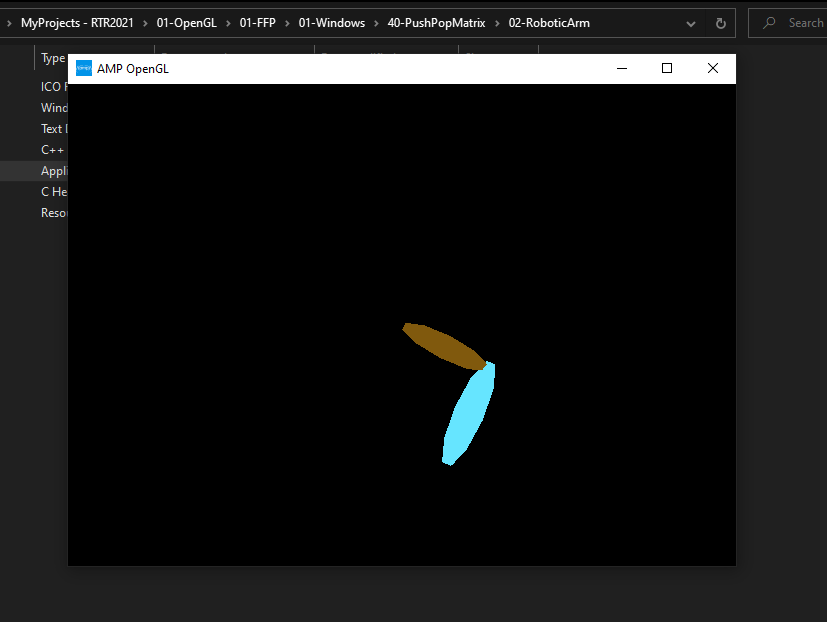
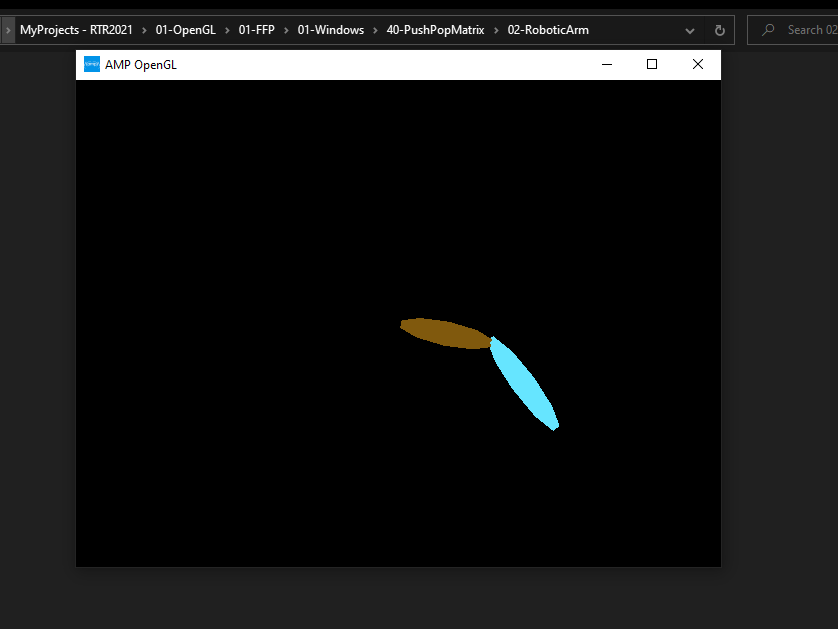
RoboticArm

Changed region(s): [[0.0, 0.0, 1.0, 0.9164], [0.4837, 0.4887, 0.6651, 0.7637]]

diff --git a/01-OpenGL/01-FFP/01-Windows/40-PushPopMatrix/02-RoboticArm/OGL.cpp b/01-OpenGL/01-FFP/01-Windows/40-PushPopMatrix/02-RoboticArm/OGL.cpp
@@ -453,7 +453,7 @@ void display(void)
 
 	glPushMatrix();		//pushes CTM on MVM stack : State-3
 
-	glScalef(2.0f, 0.5f, 1.0f);
+	glScalef(2.0f, 0.4f, 1.0f);
 
 	//now draw the elbow
 	//create quadric (the bowl)
@@ -461,8 +461,8 @@ void display(void)
 
 	glColor3f(0.4f, 0.9f, 1.0f);
 
-	//draw sphere for earth
-	gluSphere(quadric, 0.6f, 10, 10);
+	//draw sphere for elbow
+	gluSphere(quadric, 0.6f, 10, 10);		//-----------change elbow size
 
 	glPopMatrix(); 	//pops the saved CTM State-3 & makes it as new CTM
 	glPopMatrix(); 	//pops the saved CTM State-1 & makes it as new CTM
